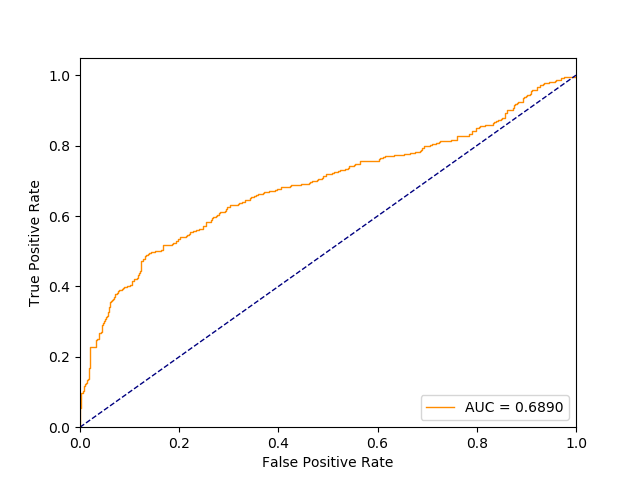
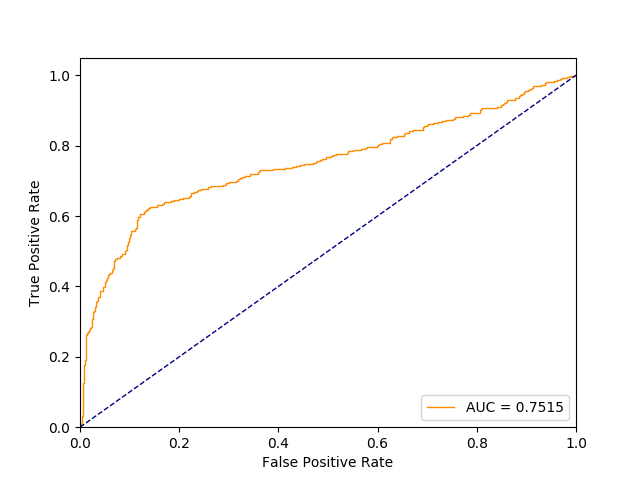
0.89

diff --git a/main.py b/main.py
@@ -16,9 +16,9 @@ import random
 
 
 parser = argparse.ArgumentParser()
-parser.add_argument("--batch_size", type = int, default = 64)
+parser.add_argument("--batch_size", type = int, default = 16)
 parser.add_argument("--lr", type = float, default = 2e-4)
-parser.add_argument("--n_epochs", type = int, default = 5)
+parser.add_argument("--n_epochs", type = int, default = 1)
 parser.add_argument("--normalization", type = str, default = 'z_score')
 parser.add_argument("--reconstructionLoss", type = str, default = 'MSE')
 parser.add_argument("--mode", type = str, default = 'test')
@@ -102,6 +102,8 @@ elif args.reconstructionLoss == 'L1':
     reconstructionLoss = nn.L1Loss()
 elif args.reconstructionLoss == 'SmoothL1':
     reconstructionLoss = nn.SmoothL1Loss()
+elif args.reconstructionLoss == 'BCE':
+    reconstructionLoss = nn.BCEWithLogitsLoss()
 else:
     raise Exception('loss function setting error')
 
@@ -113,7 +115,7 @@ g_loss_Re =0
 g_loss_BCE =0
 d_loss_sum = 0
 TP, FP, FN, TN = 0, 0, 0, 0#4 elements of confusion metrix for calculating MCC
-
+a = nn.Sigmoid()
 #start training / testing
 if args.mode == 'train':
     print('start running on train mode...')
@@ -129,7 +131,7 @@ if args.mode == 'train':
         for i, (features, labels) in enumerate(trainDataLoader):
             #noise = torch.randn_like(features)
             #noisy_features = features + noise*0.2
-
+            features = a(features)
             labels = labels.unsqueeze(1)
             if torch.sum(labels) != 0:
                 raise Exception('stop')
@@ -182,7 +184,7 @@ if args.mode == 'train':
             d_loss_sum += torch.sum(d_loss)
 
 
-            if (i + 1) % 500 == 0:
+            if (i + 1) % 10 == 0:
                 print("iteration: {} / {}, Epoch: {} / {}, g_loss_Re: {:.5f}, g_loss_BCE: {:.4f}, d_loss: {:.4f}".format(
                     str((i+1)*args.batch_size), str(train_data_point_num), epoch+1, args.n_epochs, g_loss_Re.data / (500*args.batch_size), g_loss_BCE.data / (500*args.batch_size), d_loss_sum.data / (500*args.batch_size)))
                 g_loss_Re = 0
@@ -207,6 +209,7 @@ elif args.mode == 'test':
         args.threshold = i / 20
         print('threshold:', args.threshold)
         for i, (features, labels) in enumerate(testDataLoader):
+            features = a(features)
             #noise = torch.randn_like(features)
             #noisy_features = features + noise*0.2
 

diff --git a/DataSet.py b/DataSet.py
@@ -9,17 +9,19 @@ torch.manual_seed(0)#for reproducibility
 def z_score_normalization(x):
     x = np.asarray(x, dtype = np.float)
     for i in range(len(x[0])):  
-        mean = np.mean(x[:,i])
-        std = np.std(x[:,i])
-        x[:,i] = (x[:,i] - mean) / std
+        if i == len(x[0]) - 1:
+            mean = np.mean(x[:,i])
+            std = np.std(x[:,i])
+            x[:,i] = (x[:,i] - mean) / std
     return x
 
 def mix_max_normalization(x):
     x = np.asarray(x, dtype = np.float)
     for i in range(len(x[0])):  
-        max = x[:,i].max()
-        min = x[:,i].min()
-        x[:,i] = (x[:,i] - min) / (max - min)
+        if i == len(x[0]) - 1:
+            max = x[:,i].max()
+            min = x[:,i].min()
+            x[:,i] = (x[:,i] - min) / (max - min)
     return x
 
 
